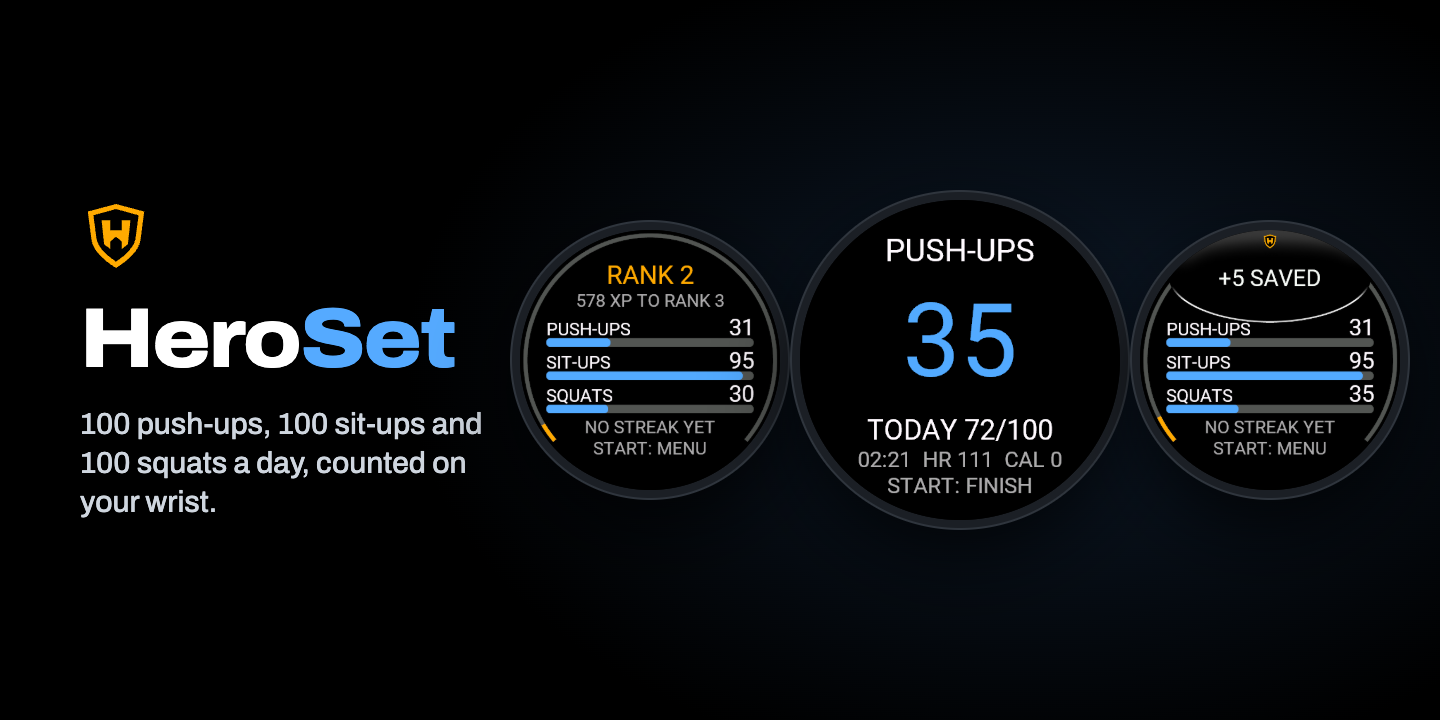
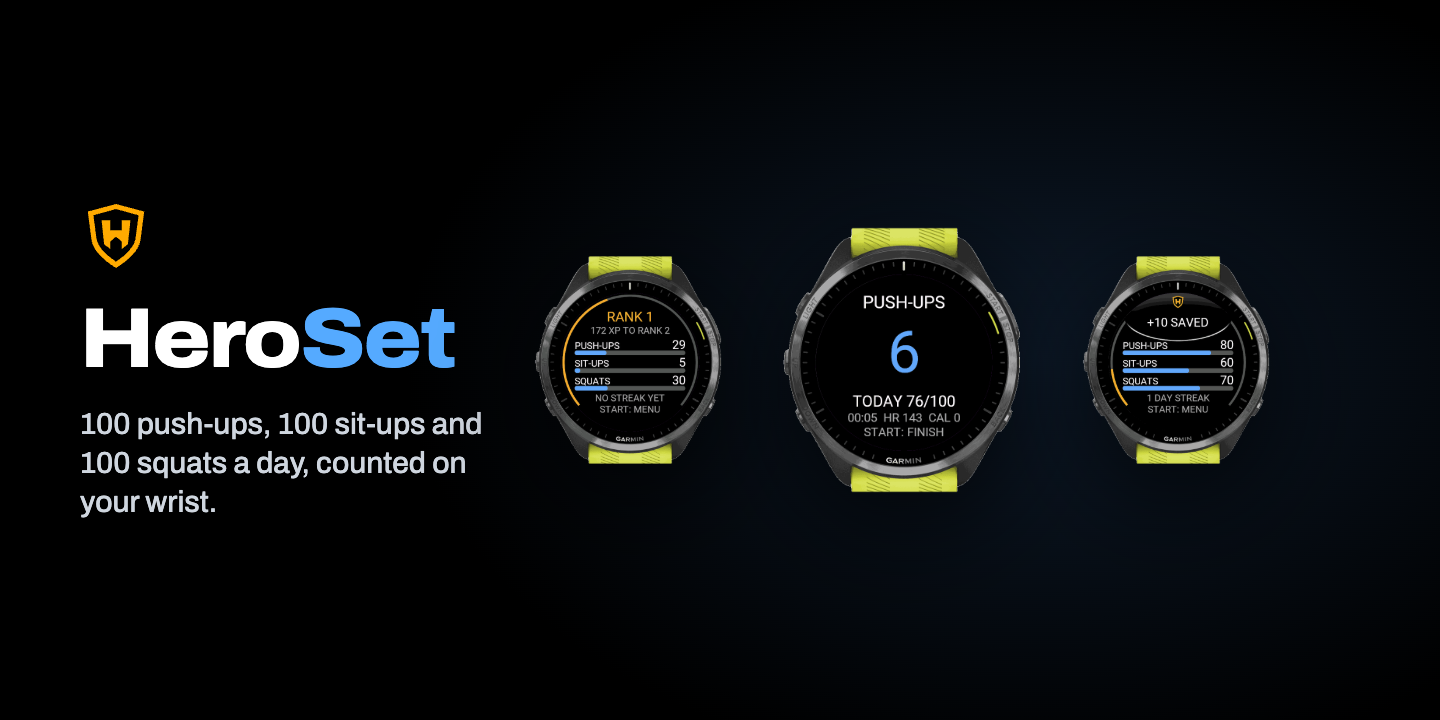
style: listing for heroset and twosuns UI imprvoements

Changed region(s): [[0.3438, 0.275, 0.9688, 0.7333], [0.8438, 0.6722, 0.9062, 0.7028]]

diff --git a/HeroSet/listing/src/hero.html b/HeroSet/listing/src/hero.html
@@ -11,13 +11,14 @@
   h1{margin:0;font-size:84px;font-weight:800;font-stretch:112%;letter-spacing:-2px;line-height:1;}
   h1 span{color:#55AAFF;}
   p{margin:24px 0 0;font-size:30px;line-height:1.3;color:#cfd6df;font-weight:450;}
-  /* Circles sit side by side: overlapping them hid words on the outer screens. */
-  .screens{display:flex;align-items:center;gap:20px;padding-right:40px;}
-  .w{border-radius:50%;overflow:hidden;background:#000;flex:none;
-     box-shadow:0 0 0 8px #1b1f25,0 0 0 10px #2f353d,0 30px 80px rgba(0,0,0,.8);}
-  .w img{width:100%;height:100%;display:block;}
-  .s{width:260px;height:260px;}
-  .l{width:320px;height:320px;}
+  /* screens-framed/*.png are chassis+strap product shots with the white
+     background already cut out (transparent). Drop-shadow follows the
+     watch's real silhouette instead of a card rectangle. */
+  .screens{display:flex;align-items:center;gap:24px;padding-right:40px;}
+  .w{flex:none;filter:drop-shadow(0 30px 50px rgba(0,0,0,.7));}
+  .w img{width:100%;height:100%;object-fit:contain;display:block;}
+  .s{width:220px;height:220px;}
+  .l{width:280px;height:280px;}
 </style></head><body>
   <div class="copy">
     <svg class="mark" viewBox="4 3 57 59"><path d="M10 13L32.5 7L55 13L52 36Q50 47 32.5 58Q15 47 13 36Z" fill="#ffaa00"/><path d="M14.5 16L32.5 11L50.5 16L48 35Q46.5 43.5 32.5 53Q18.5 43.5 17 35Z" fill="#000"/><path d="M21 20H28V28H37V20H44L42 39L37 43V37L32.5 33L28 37V43L23 39Z" fill="#ffaa00"/></svg>
@@ -25,8 +26,8 @@
     <p>100 push-ups, 100 sit-ups and 100 squats a day, counted on your wrist.</p>
   </div>
   <div class="screens">
-    <div class="w s"><img src="../screens/1-dashboard.png"></div>
-    <div class="w l"><img src="../screens/2-counting.png"></div>
-    <div class="w s"><img src="../screens/4-saved.png"></div>
+    <div class="w s"><img src="../screens-framed/1-dashboard.png"></div>
+    <div class="w l"><img src="../screens-framed/2-counting.png"></div>
+    <div class="w s"><img src="../screens-framed/4-saved.png"></div>
   </div>
 </body></html>

diff --git a/HeroSet/docs/go-to-market.md b/HeroSet/docs/go-to-market.md
@@ -6,7 +6,7 @@ Status: 2026-09-27. **Only home for open items and blockers.** History: [`../CHA
 
 ## Where things stand
 
-- **1.1.2 (glance + idle-kill fix) uploaded 2026-09-27, awaiting Garmin review.** A read-only glance-list entry on the 63 watches with Connect IQ 4.0+ ([ADR-051](decisions.md#adr-051), [`compatibility.md`](compatibility.md)), plus the recoverable-draft fix for the glance-launch idle-timeout kill found the same day ([ADR-052](decisions.md#adr-052)). Nothing else changes for users. **Owner call: uploaded without E2b, E4 or E5** (see "Next session" E below for exactly what ran and what didn't); the ship-blocking check, E1, did run and pass. `dist/HeroSet-store.iq` exported 2026-09-27. Screenshots not updated for this upload (owner will add later; text fields don't need them).
+- **1.2.0 (glance + idle-kill fix, submitted under that number rather than 1.1.2, ADR-053) uploaded 2026-09-27, awaiting Garmin review.** A read-only glance-list entry on the 63 watches with Connect IQ 4.0+ ([ADR-051](decisions.md#adr-051), [`compatibility.md`](compatibility.md)), plus the recoverable-draft fix for the glance-launch idle-timeout kill found the same day ([ADR-052](decisions.md#adr-052)). Nothing else changes for users. **Owner call: uploaded without E2b, E4 or E5** (see "Next session" E below for exactly what ran and what didn't); the ship-blocking check, E1, did run and pass. `dist/HeroSet-store.iq` exported 2026-09-27. Screenshots not updated for this upload (owner will add later; text fields don't need them).
 - **1.1.1 is live** (released 2026-09-24 15:32 UTC): 80 products, touch-first wave ([ADR-048](decisions.md#adr-048)), review fixes ([ADR-049](decisions.md#adr-049)/[050](decisions.md#adr-050)). Earlier versions: [`../CHANGELOG.md`](../CHANGELOG.md). Listing: https://apps.garmin.com/apps/54bbf625-82af-4715-8af0-f2f16a5d1377 · developer page: https://apps-developer.garmin.com/apps/54bbf625-82af-4715-8af0-f2f16a5d1377 (store id ≠ manifest id, app id `568d5c9b-eb10-4678-bf28-0080c3efbbc1`). Artifacts in `bin/`: `HeroSet-store-1.0.0-shipped.iq`, `HeroSet-store.iq` (1.1.0), `HeroSet-store-next.iq` (1.1.1, re-exported 2026-09-24 after [ADR-050](decisions.md#adr-050)).
 - **Tests:** 112 dev / 101 store on fr965 (2026-09-27, +6 for the recoverable workout draft, ADR-052); the dev suite also passes on one product per glance screen width (fr255s, fēnix 7S, 7, 7X, Venu 2S, Venu 4 41 mm, fr265, fēnix 9 Pro 51 mm, Venu 3), and all 80 products build in both jungles. Earlier (2026-09-24): dev suite 97/97 on all 80 products in English and in all 15 languages on `venu2s` + `fr265s` (`tools/fit-sweep.sh`); store suite 88/88 on fr965, venu441mm, d2airx10. `longestLearnableSetFinishes` bounds counting at 1000 ms (it failed three times at 563–610 ms under simulator load against 400); the saving bound stays 50 ms. Simulator fonts are not device fonts.
 - **Device evidence is FR965 only:** counting basics, menus, storage upgrade (gate 4), the store menu (gate 5) and a 35-rep set saved with no watchdog crash (2026-09-21). Every other product, the touch UI and the goal picker are simulator-only.
@@ -24,16 +24,16 @@ Cross-app order; HeroFace's half is in [`../../HeroFace/docs/go-to-market.md`](.
 - [ ] A3. Findability: mobile Connect IQ search lists HeroSet for "heroset" and "rep counter" (2026-09-25). Still to do: search "HeroFace" with a fēnix 9 or Forerunner 170 selected, for the reported paid-listings-hidden bug.
 - [ ] A4. Venu screenshot for the listing is in `listing/screens/6-review-touch.png` (2026-09-26). To do: upload it as an extra Screen Image on the HeroSet store listing.
 
-**E. Glance (1.1.2, gates the upload)** — FR965, dev build, all-day wear ([ADR-051](decisions.md#adr-051)); none of this has run on a watch, and the simulator's Glance Launch Mode (Settings) is a GUI toggle that could not be scripted
+**E. Glance (submitted as 1.2.0, gates the upload)** — FR965, dev build, all-day wear ([ADR-051](decisions.md#adr-051)); none of this has run on a watch, and the simulator's Glance Launch Mode (Settings) is a GUI toggle that could not be scripted
 - [x] E1. **FAILED, then fixed and confirmed (FR965, dev build, 2026-09-27).** A set launched from the glance and left idle was killed at exactly 120s (screen stays lit, redraws don't reset the timer); reps were lost. Fixed same day: [ADR-052](decisions.md#adr-052), a periodic recoverable draft. **Closed** — see E1-retest.
 - [x] E1-retest. **Confirmed on FR965 (2026-09-27):** killed a set from idle past 120s, started the same exercise again — count resumed. Other exercises correctly show 0 (draft doesn't bleed across exercises). Not yet confirmed: a draft surviving to the next calendar day reads as 0 (needs an overnight check, not blocking).
 - [x] E2a. Glance appears in the glance list **by default, no add needed** (FR965, dev build, 2026-09-27). Listing/FAQ wording ("scroll to your glance list") stands as written.
 - [~] E2b. **Skipped, owner call 2026-09-27.** A saved set shows on returning to the list; at 00:01 it shows zeros without opening the app; a missed day shows no streak. Not verified before upload.
 - [x] E3. Confirmed (FR965, 2026-09-27): HeroFace shows the same data as HeroSet/the glance after a save. The publish-point move to `getInitialView` works.
 - [~] E4. **Skipped, owner call 2026-09-27.** Simulator, Settings → Glance Launch Mode, by hand on `fr965`, `fenix7` (63 px tall) and `fr255s` (140×79): looks right, MIP contrast, done state; open the memory view once. Not looked at before upload — only the automated fit tests (`HeroSetGlanceFitTest`, pixel geometry, no eyes-on rendering) ran.
-- [~] E5. **Skipped, owner call 2026-09-27** — `CIQ_LOG.YAML` and the battery comparison were not done before upload. Store build's permission list confirmed unchanged (`Sensor` + `ComplicationPublisher`, manifest untouched). Exported `dist/HeroSet-store.iq` 2026-09-27; upload 1.1.2 with the text in `listing/README.md`. Once 1.1.2 is live, set `glanceLive = true` in `../site/src/apps/heroset/facts.ts` and deploy the site (`npm run deploy` in `../site`); the support FAQ about the glance is hidden until then, so an unrelated deploy can't announce it early.
+- [~] E5. **Skipped, owner call 2026-09-27** — `CIQ_LOG.YAML` and the battery comparison were not done before upload. Store build's permission list confirmed unchanged (`Sensor` + `ComplicationPublisher`, manifest untouched). Exported `dist/HeroSet-store.iq` 2026-09-27; upload 1.2.0 with the text in `listing/README.md`. Once 1.2.0 is live, set `glanceLive = true` in `../site/src/apps/heroset/facts.ts` and deploy the site (`npm run deploy` in `../site`); the support FAQ about the glance is hidden until then, so an unrelated deploy can't announce it early.
 
-**Owner call, 2026-09-27: uploading 1.1.2 without E2b, E4 or E5.** What did run and pass first: E1/E1-retest (the ship-blocking idle-timeout kill, found, fixed and confirmed on FR965), E2a (glance shows by default), E3 (HeroFace complication), 112/112 dev + 101/101 store unit tests including the new draft-recovery tests, `HeroSetGlanceFitTest`'s pixel-level layout checks at every glance size, the `-l 3` scope gate, and an 80-product build sweep in both jungles. What did not run: a human look at the rendered glance (E4), a saved-set/midnight-rollover/missed-streak check specifically through the glance (E2b), and the crash-log/battery read after a day of wear (E5). Simulator passing and a build sweep are not device proof ([ADR-022](decisions.md#adr-022)/[023](decisions.md#adr-023)); this upload carries that risk knowingly.
+**Owner call, 2026-09-27: uploading 1.2.0 without E2b, E4 or E5.** What did run and pass first: E1/E1-retest (the ship-blocking idle-timeout kill, found, fixed and confirmed on FR965), E2a (glance shows by default), E3 (HeroFace complication), 112/112 dev + 101/101 store unit tests including the new draft-recovery tests, `HeroSetGlanceFitTest`'s pixel-level layout checks at every glance size, the `-l 3` scope gate, and an 80-product build sweep in both jungles. What did not run: a human look at the rendered glance (E4), a saved-set/midnight-rollover/missed-streak check specifically through the glance (E2b), and the crash-log/battery read after a day of wear (E5). Simulator passing and a build sweep are not device proof ([ADR-022](decisions.md#adr-022)/[023](decisions.md#adr-023)); this upload carries that risk knowingly.
 
 **B. Device and simulator checks** (post-release by owner call, [ADR-048](decisions.md#adr-048)/[050](decisions.md#adr-050)). A Venu 4 owner's report would be the first real evidence for the touch UI; Garmin relays such requests as `noreply@garmin.com` mail, so there is no address to reply to.
 - [ ] B1. FR965 on wrist, dev build: START finishes a set; START saves the manual and goal pickers; reps still count; picker hint reads `UP/DOWN`; Back after a lone dropped rep leaves the set ([ADR-050](decisions.md#adr-050)).
@@ -52,7 +52,7 @@ Cross-app order; HeroFace's half is in [`../../HeroFace/docs/go-to-market.md`](.
 **D. Later**
 - [ ] Private beta (small group, multi-day: crashes, listener leaks) and the paid-launch announcement. Both unblocked.
 - [ ] Beta testers for watches other than the FR965 (don't gate anything, [ADR-039](decisions.md#adr-039)): per family confirm buttons, screens, counting; MIP also daylight contrast. Failing family → drop from both manifests.
-- [ ] **1.2.0: Connect sync** ([ADR-043](decisions.md#adr-043), [`connect-sync-plan.md`](connect-sync-plan.md)): implemented in the dev build. Next: FR965 spike (step 0) and device acceptance, then the store manifest gets `Fit` + `FitContributor` and privacy, support and store copy change in the same session. The version number lives in the store upload form, not in `manifest-store.xml`.
+- [x] **1.3.0: Connect sync — shelved, [ADR-054](decisions.md#adr-054).** FR965 step 0 spike (2026-09-27): Garmin Connect (mobile + web) doesn't render our developer lap/session fields at all — Sets table stays a native empty placeholder, zero mentions of the exercise totals in the web export. Plus two device bugs found (stray recording blocks reopen after exit; Discard still laps). Not pursuing further without a different product design. Dev-build code untouched.
 
 ## Launch gates
 
@@ -63,7 +63,7 @@ Passed: **4** storage upgrade keeps counts, XP, streak, `hero_learning` (2026-09
 | 2 | Median \|error\| ≤ 1 per 10-rep set (after ~5 learning sets); ≤ 1 phantom per 60 s still in position; no crash in 30 min | Accuracy waived ([ADR-042](decisions.md#adr-042)). Launch bar passed 2026-09-21; 30 min soak, speeds and idle unmeasured |
 | 3 | Finish/adjust/save/discard/Back flows on watch; no clipped text | Flows done; clip check open |
 | 7 | HR/calories sane; battery | Open |
-| 8 | Sync (1.2.0): one activity per workout in Connect, nothing stray; re-check gate 6 | Dev build, [`connect-sync-plan.md`](connect-sync-plan.md) device acceptance |
+| 8 | Sync: one activity per workout in Connect, nothing stray; re-check gate 6 | **Shelved, [ADR-054](decisions.md#adr-054).** Connect doesn't render the developer fields this needed; not pursuing |
 
 ## Never promise
 

diff --git a/HeroSet/docs/decisions.md b/HeroSet/docs/decisions.md
@@ -50,12 +50,14 @@ If only read five: **[ADR-002](#adr-002)** (XP can't be farmed), **[ADR-018](#ad
 | 038 | Wave 4: `minApiLevel` 3.4.0, 17 fēnix 6 / MARQ Gen 1 / Descent MK2 / FR945 LTE / Enduro watches | Active, **simulator-verified** |
 | 039 | First paid submission lists all 67 products; no in-app trial for v1 | Active |
 | 040 | Thresholds learned from saved counts; calibration screen removed; no position gating | Active, **simulator-verified**, amends 032/033 |
-| 043 | Connect sync: one activity per workout, one lap per set with exercise + reps | Dev build only, **unverified on the watch** |
+| 043 | Connect sync: one activity per workout, one lap per set with exercise + reps | Shelved, see 054 |
 | 048 | Wave 5: 13 touch-first round watches (Venu 2/3/4, vívoactive 5/6, Approach S50/S70, D2 Air X10); swipe adjusts, only START commits | Active, **simulator-verified**, amends 029 |
 | 049 | Long translations on 360 px: dashboard drops `DONE` word, titles move down | Active, **simulator-verified**, fixes live 1.1.0 |
 | 050 | Owner calls after the 2026-09-24 review: Back gate on the saveable count, swipe up = +1 kept, exit-menu order kept, next upload is 1.1.1 | Active |
 | 051 | App glance: read-only, `(:glance)`-scoped, 63 of 80 watches; lazy `HeroSetApp`; publish point moves to `getInitialView` | Active; simulator-verified only |
 | 052 | Recoverable workout draft: checkpoint the in-progress rep count so the glance-launch idle-kill (E1) doesn't lose it | Active; FR965 device test still owed |
+| 053 | Glance upload submitted as 1.2.0, not 1.1.2; Connect sync moves to 1.3.0 | Active |
+| 054 | Connect sync shelved: Connect's UI never renders developer lap/session fields; two device bugs found (stray recording on exit, discard still lapping) | Active, amends 043 |
 
 ---
 
@@ -250,7 +252,7 @@ Decided 2026-09-19 (user call) after the first learning-build session on FR965: 
 - **Amended 2026-09-21 (with [ADR-047](#adr-047)):** the validation log was cleared and the FR965 fresh-installed, so every row above is gone — it mixed three detector eras on a learner trained by those same sets. The detector is unchanged and stays unchanged for 1.1.0 ([ADR-046](#adr-046) only rounded the learner's candidate thresholds to integers, ≤ 1.5% of a step): accuracy work is a **1.1.1** item, taken up only if buyers report it. **Gate 2 for 1.1.0 is crash-only**: one 30+ rep set saved on the watch without a `Watchdog Tripped Error`, proving [ADR-046](#adr-046) on device. The old data's findings, kept because they still name where to look first: push-ups over-count on 15–25 rep sets, squats collapsed to 3-for-10 twice, sit-ups clean.
 - **Amends** [`go-to-market.md`](go-to-market.md) Phase 1 "accuracy validation method" and the [`release-contract.md`](release-contract.md) release decision: gate 2 becomes a post-launch check; a failure is fixed in an update, and the listing is rewritten manual-first if counting can't be defended as beta.
 
-### <a id="adr-043"></a>ADR-043: Connect sync: one activity per workout, laps per set. **Scheduled for 1.2.0 ([ADR-047](#adr-047))**
+### <a id="adr-043"></a>ADR-043: Connect sync: one activity per workout, laps per set. **Shelved, [ADR-054](#adr-054)** (was scheduled for 1.3.0, [ADR-047](#adr-047), renumbered by [ADR-053](#adr-053))
 Decided 2026-09-19 (user call); full reasoning and platform limits in [`connect-sync-plan.md`](connect-sync-plan.md).
 - **A day can't be merged into one activity.** A Connect IQ session records live only (no backdating), doesn't survive the app closing ([ADR-030](#adr-030)'s device result), can't run in a 30 s background service, and no Garmin API accepts a finished activity from outside. So the unit is one HeroSet **visit**. The user is fine with several activities a day and mutes Strava noise on Strava's side.
 - **Behavior (sync On):** a visit's first workout set opens a `SPORT_TRAINING`/`STRENGTH_TRAINING` session; the timer runs only while a set screen is up. Each set is one lap, closed when the next set begins, carrying FIT developer fields `Exercise` (string) and `Reps`; session fields hold push-up/sit-up/squat totals. Only workout-seeded saves count (same boundary as learning, [ADR-040](#adr-040)); negative corrections count as 0. `AppBase.onStop` always saves (≥ 1 saved rep) or discards, and a refused save is discarded: on a normal exit nothing is left open, which should stop the stray activities of [ADR-030](#adr-030). Negative corrections lower the visit total (lap stays ≥ 0).
@@ -382,3 +384,25 @@ Decided 2026-09-27, the day the owner ran gate E1 on FR965 (dev build, sideloade
 **Evidence.** Written without the simulator (shared with another session), then verified once it was free: 112/112 dev, 101/101 store, `tools/glance-scope-check.sh` clean. Caught by that run: two tests used `Test.assertEqual(x, null)`, which the runner throws on — fixed to `Test.assert(x == null)`, the pattern already used elsewhere in the suite. **Confirmed on FR965 the same day:** a set killed by the idle timeout resumes when the same exercise is started again; a different exercise correctly shows 0 (no cross-exercise bleed). Not yet checked, not blocking: a draft surviving unresumed to the next calendar day reads as 0.
 
 **Consequences.** Three new flat keys, spellings fixed by [ADR-003](#adr-003) like every other `hero_*` key. No manifest, permission or complication change. Test count: +N (`HeroSetWorkoutDraftTest`, store-level only — no UI test, since nothing is drawn differently).
+
+### <a id="adr-053"></a>ADR-053: Glance upload submitted to the store as 1.2.0, not 1.1.2; Connect sync renumbered to 1.3.0
+Decided 2026-09-27 (owner call). The glance + idle-kill fix build (ADR-051/052, `dist/HeroSet-store.iq`, permissions unchanged: `Sensor` + `ComplicationPublisher`) was uploaded to the Connect IQ Store with **App Version `1.2.0`**, not the `1.1.2` this doc set had been calling it. No Connect sync code, `Fit`/`FitContributor` permission, or manifest change is in this build — App Version is free text typed into the upload form ([`listing/NOTES.md`](../listing/NOTES.md)), not derived from the manifest, so nothing on the watch or in the package changed as a result.
+
+**Consequence:** `1.2.0` is spent. Connect sync ([ADR-043](#adr-043), [`connect-sync-plan.md`](connect-sync-plan.md)) now targets **1.3.0** — its own permission and manifest change still gates that upload exactly as before, only the number moves. Nothing else about the sync plan changes.
+
+### <a id="adr-054"></a>ADR-054: Connect sync shelved — step 0 spike failed, two device bugs found. **Amends [ADR-043](#adr-043)**
+Decided 2026-09-27 (owner call), on FR965, dev build, sideloaded. Step 0 of [`connect-sync-plan.md`](connect-sync-plan.md) run before the 10-item device acceptance.
+
+**Step 0 spike result: fail, and not the string-vs-numeric question it was written to answer.** One visit, one set, sync On. Checked both Garmin Connect mobile (Overview → Exercises) and Connect web (exported page): the Strength Training activity's Sets/Exercises table shows exactly one row, `Exercise Name` = the native "Choose an Exercise" placeholder link, `Reps` and `Time` both `0`. Searched the full web export for `pushup`/`situp`/`squat`/`developer`: zero matches. None of our `FitContributor` fields (`exercise`, `reps` on the lap; `pushups`/`situps`/`squats` on the session) render anywhere in Garmin Connect, on either platform. Session-level native fields work fine (0:35 total time, 66 bpm avg HR, 1 cal all came through correctly).
+
+**Root cause, matching a limit this doc already named** ([`connect-sync-plan.md`](connect-sync-plan.md) platform-limits table: "no FIT `set`/exercise-category API → no native set list"): Garmin Connect's Sets/Exercises UI is built entirely around FIT's *native* `Set` message, not developer fields on LAP/SESSION messages. The plan's central promise — "one lap per set, exercise + reps in the summary" — can't be shown in Connect's own app on either platform. Whether the developer fields exist at all in the raw FIT bytes was not checked (no export pulled); moot regardless, since what a buyer sees in Connect is what matters for the store description.
+
+**Two further bugs found in the same session, independent of the above:**
+- **Exiting HeroSet mid-visit leaves the native session recording.** Reopening the app afterward reports it's still recording and refuses a clean restart — the exact stray-activity failure class [ADR-030](#adr-030) already found and this design's `onStop` save-or-discard-always rule ([ADR-043](#adr-043)) was meant to close off. It isn't closing it off on this exit path.
+- **Discard still creates a lap.** A discarded set was expected to leave a 0-rep lap only ([ADR-043](#adr-043) "Discarded / empty sets keep a 0-rep lap"); instead new laps kept appearing after Discard, which reads as the boundary logic firing independent of the discard path.
+
+Neither bug was investigated further (not worth root-causing a design whose main value can't render).
+
+**Decision.** Connect sync does not ship. Not this session, not as designed. 1.3.0 is not uploaded today; no store publication happens. `dist/` and the store listing are untouched — 1.2.0 (glance, [ADR-053](#adr-053)) stays the only thing awaiting Garmin review.
+
+**Consequences.** [ADR-043](#adr-043) is shelved, not superseded — the dev-build code stays as-is (still `(:sync)`-scoped, still excluded from `store.jungle`), nothing to revert. Resuming this feature later means solving the actual product question first (own exercise log inside HeroSet, since Connect can't show it: a "Health & Fitness" positioning built around it, not "Health & Fitness *and syncs to Connect*"), not re-running the same acceptance checklist expecting a different render result. `docs/connect-sync-plan.md` and `docs/go-to-market.md`'s 1.3.0 backlog item both note this.

diff --git a/TODO.md b/TODO.md
@@ -10,7 +10,7 @@ Last consolidated 2026-09-26.
 - [x] A2. Category (2026-09-26): re-set on HeroSet; the developer page HTML (incognito) shows STRENGTH_TRAINING. Not checked: whether the store API still reads 219.
 - [x] A3. Dropped 2026-09-26: the mobile app only selects a device by linking a real one, and there is no fēnix 9 / FR170 to link. Store-side bug, not ours anyway.
 - [x] HeroFace 1. FR965 store install of 1.0.1 (2026-09-26): live; face and HeroSet both installed, link works. °F rounding checked on the FR965, shows correct. Not checked: stored mode 2 → Auto.
-- [ ] A4. Upload `HeroSet/listing/screens/6-review-touch.png` as an extra Screen Image on the HeroSet store listing (Venu 4 41mm simulator, `SWIPE: ADJUST`; edit details need no re-review). Source frame: `HeroSet/listing/src/venu4-41mm-simulator-full.png`.
+- [ ] A4. Upload all 7 `HeroSet/listing/screens-framed/*.png` as the Screen Images on the HeroSet store listing (edit details need no re-review) — supersedes the old single-file plan below it.
 
 ## Device checks (FR965, dev build, all-day wear)
 
@@ -33,19 +33,20 @@ Capture: run the app in the simulator on the product named, get the state shown,
 | # | App | Simulator product | State to capture | Save as (`~/screenshots/`) | Status |
 |---|---|---|---|---|---|
 | 1 | HeroSet | `fr965` store build, goal 100 | Dashboard | `goal 100 full.png` | done, no streak. Source moved to `HeroSet/listing/src/fr965-dashboard-goal100-{window,454}.png`; cropped to `screens-framed/dashboard.png` |
-| 2 | HeroSet | `fr965`, goal 100 | Counting push-ups (TODAY x/100) | `push up with hr full.png` | **retake** (has /30) |
-| 3 | HeroSet | `fr965`, goal 100 | Review picker: DETECTED, +N, `UP/DOWN: ADJUST` | `adjust full.png` | **retake** (has /30) |
-| 4 | HeroSet | `fr965`, goal 100 | `+N SAVED` dashboard | `save full.png` | **retake** (has /30) |
-| 5 | HeroSet | `fr965`, goal 100 | Menu, `Start Squats` whole (scroll position of `menu 5 full.png`) | `menu 5 full.png` | **retake** (has /30, clip fixed) |
+| 2 | HeroSet | `fr965`, goal 100 | Counting push-ups (TODAY x/100) | `push up with hr full.png` | **done 2026-09-27.** Source `HeroSet/listing/src/fr965-counting-window.png`; cropped to `screens-framed/counting.png` |
+| 3 | HeroSet | `fr965`, goal 100 | Review picker: DETECTED, +N, `UP/DOWN: ADJUST` | `adjust full.png` | **done 2026-09-27.** Source `HeroSet/listing/src/fr965-review-window.png`; cropped to `screens-framed/review.png` |
+| 4 | HeroSet | `fr965`, goal 100 | `+N SAVED` dashboard | `save full.png` | **done 2026-09-27.** Source `HeroSet/listing/src/fr965-saved-window.png`; cropped to `screens-framed/saved.png` |
+| 5 | HeroSet | `fr965`, goal 100 | Menu, `Start Squats` whole (scroll position of `menu 5 full.png`) | `menu 5 full.png` | **done 2026-09-27** (scroll rests on Sit-ups, Squats fully visible, not centered — close enough, retake only if that's wrong). Source `HeroSet/listing/src/fr965-menu-window.png`; cropped to `screens-framed/menu.png` |
 | 6 | HeroSet | `fr965`, goal 100 | DAILY MISSION COMPLETE, 1 day streak | `complete full.png` | done. Source moved to `HeroSet/listing/src/fr965-complete-streak-{window,454}.png`; cropped to `screens-framed/complete.png` |
-| 7 | HeroSet | `venu441mm` (touch) | Review picker, `SWIPE: ADJUST` | `venu 4 full.png` | have small 390 px window shot in `HeroSet/listing/src/`; recapture at goal 100 if soft |
+| 7 | HeroSet | `venu441mm` (touch), goal 100 | Review picker, `SWIPE: ADJUST` | `venu 4 full.png` | **done 2026-09-27.** Source `HeroSet/listing/src/venu441mm-review-touch-window.png`; cropped to `screens-framed/venu-review-touch.png`, swipe-gesture glyph added (the one non-capture addition) |
 | 8 | HeroFace | `fenix5` (240 px) | Everyday, part-filled: 3406 steps, 20 int min, 7 floors | `heroface-1-everyday.png` | open |
 | 9 | HeroFace | any round sim (docs don't say) | Everyday, all three goals met, 1-day streak | `heroface-2-goals-met.png` | open; note product used |
 | 10 | HeroFace | `fr965` | HeroSet mode, 20/45/10 reps, rank 2, orange ring | `heroface-3-heroset.png` | open: only a real watch had HeroSet data; can the sim? else leave plain |
 | 11 | HeroFace | `fr965` | HeroSet mode, all three met, rank 2, streak 1 | `heroface-4-heroset-complete.png` | same as #10 |
 | 12 | HeroFace | `fr245` (no barometer) | STEPS / INT / MOVE | `heroface-5-no-barometer.png` | open |
 
-- [ ] After captures (Claude): crop (678² from x=58 y=181, pad white to 720²), move into `listing/screens/`, update `listing/README.md` and `HeroFace/listing/screenshots.md`, site copies in `site/public/{heroset,heroface}/screens/` (never rename published URLs), re-render hero + cover (their layouts need rework for tall framed shots), then upload to both store listings.
+- [x] All 7 HeroSet rows cropped, padded to 720², placed in `listing/screens-framed/`, `listing/README.md` Screen Images list rewired to them (2026-09-27).
+- [ ] Still open: site copies in `site/public/heroset/screens/` (never rename published URLs), re-render hero + cover (their layouts need rework for tall framed shots — `hero.html` still points at the old `screens/2-counting.png` etc), upload all 7 to the live HeroSet store listing. HeroFace rows (8-12) untouched.
 
 ## HeroSet 1.1.2 glance (built 2026-09-26, not uploaded; gates the upload, [ADR-051](HeroSet/docs/decisions.md#adr-051))
 

diff --git a/HeroSet/listing/NOTES.md b/HeroSet/listing/NOTES.md
@@ -25,11 +25,11 @@ Saved page, 2026-09-19: Title 50, Description 4000, What's New 4000, App Version
 
 | Field | Reason |
 |---|---|
-| Description | Plain text, keep line breaks; the first line is what list views show. Checked against the forbidden claims in [`../docs/release-contract.md`](../docs/release-contract.md) on 2026-09-22, and again on 2026-09-26 for the glance line (63 of 80 watches, no reminder/alert wording) (the 2026-09-19 check predates the daily-goal line and the current contract); submitted for 1.1.2 on 2026-09-27. |
-| App Version | Free text, not read from the manifest; bump on every upload (patch for fixes, minor for features). 1.1.1 live ([ADR-050](../docs/decisions.md#adr-050)); next 1.1.2, the glance ([ADR-051](../docs/decisions.md#adr-051)), then 1.2.0. |
+| Description | Plain text, keep line breaks; the first line is what list views show. Checked against the forbidden claims in [`../docs/release-contract.md`](../docs/release-contract.md) on 2026-09-22, and again on 2026-09-26 for the glance line (63 of 80 watches, no reminder/alert wording) (the 2026-09-19 check predates the daily-goal line and the current contract); submitted for 1.2.0 on 2026-09-27. |
+| App Version | Free text, not read from the manifest; bump on every upload (patch for fixes, minor for features). 1.1.1 live ([ADR-050](../docs/decisions.md#adr-050)); the glance build ([ADR-051](../docs/decisions.md#adr-051)) was submitted as **1.2.0**, not the 1.1.2 it was called during development ([ADR-053](../docs/decisions.md#adr-053)); Connect sync (1.3.0) is shelved, [ADR-054](../docs/decisions.md#adr-054). |
 | Collects user data | No: the store build has no network access, no activity recording, no sync ([ADR-033](../docs/decisions.md#adr-033)). The privacy policy is still linked (gate 6). |
 | Cover Image | Shield + name only: it shows at about 100 px in browse, so no screen text. |
-| Screen Images | Simulator captures of the store build ([ADR-039](../docs/decisions.md#adr-039)), no mockups. If a shot shows a changed UI, re-take it and update the site copy in `../../site/public/heroset/screens/`. |
+| Screen Images | Simulator captures of the store build ([ADR-039](../docs/decisions.md#adr-039)), no mockups; the app's own pixels are never altered. Chassis+strap style, 2026-09-27: real full-window captures cropped to 720² and white-padded, background then keyed to transparent (connected-component flood fill from the corners) — the only post-capture edit, cosmetic only. If a shot shows a changed UI, re-take it and update the site copy in `../../site/public/heroset/screens/`. |
 | Email | The dedicated support address, also on the site's support and privacy pages. |
 | App Migration | No: support is an explicit list of 80 products ([`../docs/compatibility.md`](../docs/compatibility.md), [ADR-034](../docs/decisions.md#adr-034)/[035](../docs/decisions.md#adr-035)/[037](../docs/decisions.md#adr-037)/[038](../docs/decisions.md#adr-038)/[048](../docs/decisions.md#adr-048)); don't let the store add untested devices. |
 | Monetization | Paid through the store. |

diff --git a/HeroSet/docs/release-contract.md b/HeroSet/docs/release-contract.md
@@ -1,6 +1,6 @@
 # Release contract
 
-Status: 2026-09-26. What the **store build** (`store.jungle`, [ADR-033](decisions.md#adr-033)) may honestly claim. Check before any user-facing copy (site, listing, What's New).
+Status: 2026-09-27. What the **store build** (`store.jungle`, [ADR-033](decisions.md#adr-033)) may honestly claim. Check before any user-facing copy (site, listing, What's New).
 
 | Capability | Status | Evidence / limit |
 |---|---|---|
@@ -8,7 +8,7 @@ Status: 2026-09-26. What the **store build** (`store.jungle`, [ADR-033](decision
 | Automatic reps | Beta, learns from saved counts ([ADR-040](decisions.md#adr-040)); gate 2 accuracy waived for launch ([ADR-042](decisions.md#adr-042), amended 2026-09-21) | **No current device data**: log cleared and FR965 fresh-installed 2026-09-21 ([`validation-log.md`](validation-log.md)). The detector is unchanged; [ADR-046](decisions.md#adr-046) rounded the learner's candidate thresholds to integers (≤ 1.5% of a step). Accuracy work is a 1.1.1 item. Pre-reset findings, not evidence for a claim: push-ups over-count on 15–25 rep sets, squats collapsed to 3-for-10 twice |
 | Manual correction + logging | Implemented: buttons, or swipe on touch-first watches; a tap on the counting or adjust screen never finishes or saves (native menus still select by tap) | [ADR-024](decisions.md#adr-024)/[028](decisions.md#adr-028)/[029](decisions.md#adr-029)/[048](decisions.md#adr-048) |
 | Goals, XP, rank, streak | Implemented | Unit tests; missed day shows streak 0 ([ADR-031](decisions.md#adr-031)) |
-| Glance | Read-only glance-list entry: today's three bars and the streak, on 63 of the 80 watches (Connect IQ 4.0+; not fēnix 6, MARQ Gen 1, Descent Mk2, FR945 LTE, Enduro Gen 1) ([ADR-051](decisions.md#adr-051)). **Ships in 1.1.2, not in a store build yet** | Simulator only, no glance on any wrist. The idle timeout of an app launched from the glance is unmeasured (hard gate, [`go-to-market.md`](go-to-market.md) E) |
+| Glance | Read-only glance-list entry: today's three bars and the streak, on 63 of the 80 watches (Connect IQ 4.0+; not fēnix 6, MARQ Gen 1, Descent Mk2, FR945 LTE, Enduro Gen 1) ([ADR-051](decisions.md#adr-051)). **Shipped as 1.2.0 (submitted, not this doc's original 1.1.2, ADR-053)** | Simulator only, no glance on any wrist. The idle timeout of an app launched from the glance is unmeasured (hard gate, [`go-to-market.md`](go-to-market.md) E) |
 | Daily goal | 100 each by default, user-set on the watch, 10–500 in steps of 10 ([ADR-045](decisions.md#adr-045)) | Unit tests; picker fits 218–466 px in simulator. **Gate 5 re-check open** (store menu gained the item) |
 | XP vs the goal | XP stops at 100 reps per exercise per day whatever the goal is | `xpStillCapsAtTheFixedRepCapWithAHighGoal`. Claim: **rank reflects reps done, not goals hit** — never say a higher goal earns rank faster |
 | Storage upgrade | Implemented | Flat `hero_*` keys unchanged ([ADR-003](decisions.md#adr-003)/[036](decisions.md#adr-036)); FR965 upgrade kept progress (2026-09-18) |

diff --git a/HeroSet/listing/README.md b/HeroSet/listing/README.md
@@ -1,6 +1,6 @@
 # HeroSet — store listing (paste-ready)
 
-Status: 2026-09-27. **1.1.2 uploaded, awaiting Garmin review** (the glance + idle-kill fix, [ADR-051](../docs/decisions.md#adr-051)/[052](../docs/decisions.md#adr-052)); fields below are what was submitted. Next after it clears: 1.2.0 (Connect sync).
+Status: 2026-09-27. **1.2.0 uploaded, awaiting Garmin review** (the glance + idle-kill fix, [ADR-051](../docs/decisions.md#adr-051)/[052](../docs/decisions.md#adr-052); submitted as `1.2.0` rather than `1.1.2`, [ADR-053](../docs/decisions.md#adr-053)); fields below are what was submitted. Connect sync (1.3.0) is shelved, [ADR-054](../docs/decisions.md#adr-054); no next version decided yet.
 
 Fields are in the order of the upload form (https://apps.garmin.com/en-US/developer/upload, step 2). One block = one field: copy the block, paste it. Nothing else is in this file; limits, why each answer is what it is, image sources and history are in [`NOTES.md`](NOTES.md).
 
@@ -37,7 +37,7 @@ Good to know: counting depends on how you wear the watch and how you move, so th
 ## App Version (max 20)
 
 ```text
-1.1.2
+1.2.0
 ```
 
 ## What's New (max 4000)
@@ -82,12 +82,17 @@ https://verden.watch/heroset/privacy/
 
 ## Screen Images (upload in this order)
 
-1. [`screens/1-dashboard.png`](screens/1-dashboard.png)
-2. [`screens/2-counting.png`](screens/2-counting.png)
-3. [`screens/3-review.png`](screens/3-review.png)
-4. [`screens/4-saved.png`](screens/4-saved.png)
-5. [`screens/5-menu.png`](screens/5-menu.png) (optional)
-6. [`screens/6-review-touch.png`](screens/6-review-touch.png) (optional, touch-watch hint `SWIPE: ADJUST`; Venu 4 41mm simulator, 390 px scaled to 454)
+Garmin caps this at 5 images; upload in this exact order (filenames are numbered to match).
+
+1. [`screens-framed/1-dashboard.png`](screens-framed/1-dashboard.png) (fr965, goal 100)
+2. [`screens-framed/2-counting.png`](screens-framed/2-counting.png) (fr965, mid-set, HR live)
+3. [`screens-framed/3-review.png`](screens-framed/3-review.png) (fr965, review picker, `UP/DOWN: ADJUST`)
+4. [`screens-framed/4-saved.png`](screens-framed/4-saved.png) (fr965, `+N SAVED` dashboard)
+5. [`screens-framed/5-complete.png`](screens-framed/5-complete.png) (fr965, `DAILY MISSION COMPLETE`, 1 day streak)
+
+All chassis + strap simulator captures of the store build (real, no mockups, [ADR-039](../docs/decisions.md#adr-039)). Replaces the earlier tight-crop `screens/1-6` set.
+
+**Not used, kept as spares in the same folder** (menu and touch-device shots didn't make the 5-image cap): [`screens-framed/menu.png`](screens-framed/menu.png), [`screens-framed/venu-review-touch.png`](screens-framed/venu-review-touch.png) (Venu 4 41mm, `SWIPE: ADJUST`, has an added swipe-gesture glyph — the one non-capture graphic in this set).
 
 ## Device icons (optional, 128×128)
 

diff --git a/HeroSet/PRODUCT.md b/HeroSet/PRODUCT.md
@@ -33,7 +33,7 @@ A button-first daily challenge that lives entirely on the watch: automatic rep c
 - Automatic counting is beta and can miscount; accuracy numbers may not be claimed until launch gate 2 passes ([`docs/release-contract.md`](docs/release-contract.md)).
 - Manual correction and manual logging on every path; XP only for net stored progress ([ADR-002](docs/decisions.md#adr-002)); rank derived, never stored.
 - Reliability: a set survives the glance-launch idle kill (confirmed on FR965, exactly 120s) by resuming from a periodic checkpoint instead of restarting at 0 ([ADR-052](docs/decisions.md#adr-052)).
-- Glance (1.1.2, [ADR-051](docs/decisions.md#adr-051)): a read-only glance-list entry with today's three bars and the streak, on the 63 products with Connect IQ 4.0+; it never writes and needs no permission.
+- Glance (1.2.0, [ADR-051](docs/decisions.md#adr-051)): a read-only glance-list entry with today's three bars and the streak, on the 63 products with Connect IQ 4.0+; it never writes and needs no permission.
 - Live HR and calorie estimate during a set; calories are the change in Garmin's daily total, an estimate, not a medical or native session measurement.
 - Store build: `Sensor` + `ComplicationPublisher` permissions only, no network, no Garmin Connect/Strava sync, no FIT activity ([ADR-033](docs/decisions.md#adr-033)). Opt-in Connect sync (one activity per workout, [ADR-043](docs/decisions.md#adr-043)) exists in the dev build only, unverified; planned for v1.1.
 - Watch UI: round screens only, AMOLED and MIP, 80 products from ~208 to 466 px; min Connect IQ API 3.4.0; one class per file; text fit measured, never guessed ([ADR-018](docs/decisions.md#adr-018)); render only in `onUpdate`.

diff --git a/HeroSet/docs/ideas.md b/HeroSet/docs/ideas.md
@@ -2,13 +2,13 @@
 
 Status: 2026-09-26. Candidate features, ranked by value per unit of cost.
 
-**Not open items.** Nothing here is committed, scheduled or blocking; [`go-to-market.md`](go-to-market.md) stays the only home for open items. 1.2.0 is Connect sync ([ADR-043](decisions.md#adr-043)); these come after it. Anything that graduates gets an ADR in [`decisions.md`](decisions.md) and moves to the go-to-market backlog; the entry here then says so.
+**Not open items.** Nothing here is committed, scheduled or blocking; [`go-to-market.md`](go-to-market.md) stays the only home for open items. Connect sync (1.3.0) is shelved, [ADR-054](decisions.md#adr-054); nothing here depends on it shipping. Anything that graduates gets an ADR in [`decisions.md`](decisions.md) and moves to the go-to-market backlog; the entry here then says so.
 
 Every idea is checked against [`release-contract.md`](release-contract.md) (forbidden claims), [ADR-029](decisions.md#adr-029) (no long-press gestures), [ADR-044](decisions.md#adr-044) (the complication field order HeroFace depends on) and the store build's `Sensor` + `ComplicationPublisher` permissions ([ADR-033](decisions.md#adr-033)). Where one of those is the real cost, the entry says it.
 
 ---
 
-## 1. Glance view. **Graduated: [ADR-051](decisions.md#adr-051), ships in 1.1.2**
+## 1. Glance view. **Graduated: [ADR-051](decisions.md#adr-051), shipped as 1.2.0**
 
 **What.** The Connect IQ glance for HeroSet: today's three mission bars and the streak, no app launch. Scrolling past it answers "am I done today?".
 

diff --git a/HeroSet/docs/connect-sync-plan.md b/HeroSet/docs/connect-sync-plan.md
@@ -1,6 +1,6 @@
-# Garmin Connect sync (1.2.0)
+# Garmin Connect sync (shelved, was 1.3.0)
 
-Status: 2026-09-26. **Implemented in the dev build ([ADR-043](decisions.md#adr-043)), committed, unverified on watch.** Open: steps 0, 7, 8 below. Not in the store build: 1.1.0 and 1.1.1 shipped without sync; this is **1.2.0** ([ADR-047](decisions.md#adr-047)), after 1.1.2, the glance ([ADR-051](decisions.md#adr-051)).
+Status: 2026-09-27. **Shelved ([ADR-054](decisions.md#adr-054)).** Step 0 run on FR965 (dev build, sideloaded, sync On): Garmin Connect (mobile + web) never renders our `FitContributor` lap/session fields — the Sets/Exercises table shows only the native "Choose an Exercise" placeholder, Reps 0, and a full-text search of the web export found zero mentions of pushups/situps/squats. This isn't the string-vs-numeric question step 0 was meant to answer; it's that Connect's Sets UI doesn't read developer fields at all, matching the platform limit already named below. Two further device bugs found in the same session, not investigated further: exiting HeroSet mid-visit leaves the session recording (blocks reopening — the ADR-030 failure class this design was meant to close off) and Discard still creates a lap. **Not shipping as designed.** Code stays as committed (`(:sync)`-scoped, excluded from `store.jungle`); resuming needs a different product answer to "where does the exercise breakdown live", not a re-run of the checklist below.
 
 ## Summary
 

diff --git a/HeroSet/README.md b/HeroSet/README.md
@@ -22,8 +22,8 @@ Live as a paid app on the Connect IQ Store.
   15 languages. 112 unit tests pass (101 in the store build).
 - **Not proven on a wrist:** counting accuracy beyond a few FR965 sets; the
   other 79 watches and the touch UI (simulator only).
-- **1.1.2 (glance + idle-kill fix) uploaded 2026-09-27, awaiting Garmin review:** a read-only glance-list entry on 63 of the 80 watches, plus a fix for a set-losing bug found the same day ([ADR-051](docs/decisions.md#adr-051)/[052](docs/decisions.md#adr-052)). Uploaded on an owner call without the full FR965 check list — see [`docs/go-to-market.md`](docs/go-to-market.md).
-- **1.2.0 Connect sync:** dev build only, unverified ([ADR-043](docs/decisions.md#adr-043)).
+- **1.2.0 (glance + idle-kill fix, ADR-053) uploaded 2026-09-27, awaiting Garmin review:** a read-only glance-list entry on 63 of the 80 watches, plus a fix for a set-losing bug found the same day ([ADR-051](docs/decisions.md#adr-051)/[052](docs/decisions.md#adr-052)). Uploaded on an owner call without the full FR965 check list — see [`docs/go-to-market.md`](docs/go-to-market.md).
+- **Connect sync:** shelved, [ADR-054](docs/decisions.md#adr-054) — Garmin Connect never renders the developer fields the design needed.
 - Open items: [`docs/go-to-market.md`](docs/go-to-market.md). Allowed claims:
   [`docs/release-contract.md`](docs/release-contract.md).
 

diff --git a/HeroSet/CHANGELOG.md b/HeroSet/CHANGELOG.md
@@ -4,7 +4,9 @@ One entry per Connect IQ Store publication, newest first. The store's
 "What's New" text for each version is in [`listing/README.md`](listing/README.md); the why is in
 the ADRs named. Dates are upload dates; review status follows.
 
-## 1.1.2 — uploaded 2026-09-27, awaiting Garmin review
+## 1.2.0 — uploaded 2026-09-27, awaiting Garmin review
+
+Submitted as `1.2.0`, not `1.1.2` as this build was called during development — App Version is free text on the upload form, not read from the manifest, so nothing in the package changed ([ADR-053](docs/decisions.md#adr-053)). No Connect sync in this release; sync (which would have been 1.3.0) is shelved the same day — Garmin Connect doesn't render the developer fields it needed ([ADR-054](docs/decisions.md#adr-054)).
 
 - **Glance:** a HeroSet entry for the glance list on the 63 watches with Connect IQ
   4.0 or later: today's push-ups, sit-ups and squats as three bars, and the streak
